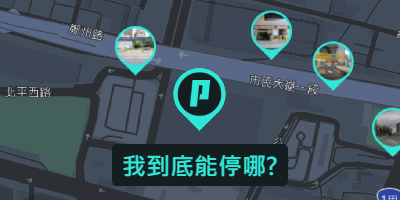
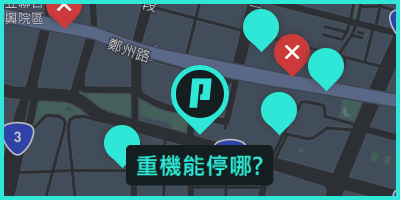
test

diff --git a/index.html b/index.html
@@ -4,16 +4,16 @@
     <meta charset="UTF-8" />
     <link rel="icon" href="/logo.png" />
     <meta name="viewport" content="width=device-width, initial-scale=1.0" />
-    <title>騎重機錯了嗎?到底能停哪?</title>
+    <title>重機能停哪?</title>
     <link rel="apple-touch-icon" href="./logo.png">
     <link rel="manifest" href="./manifest.json" />
     <meta property="description" content="車位這麼多 但我到底能停哪裡? 停車費又是多少?" >
-    <meta property="og:title" content="騎重機錯了嗎?到底能停哪?" >
+    <meta property="og:title" content="重機能停哪?" >
     <meta property="og:type" content="website" >
     <meta property="og:url" content="https://findparkinglot.github.io/" >
     <meta property="og:image" content="https://findparkinglot.github.io/ogimage.png" >
     <meta property="og:description" content="車位這麼多 但我到底能停哪裡? 停車費又是多少?"  >
-    <meta property="og:site_name" content="騎重機錯了嗎?到底能停哪?" >
+    <meta property="og:site_name" content="重機能停哪?" >
     <meta property="og:locale" content="" >
     <link rel="alternate" hreflang="zh-tw" href="https://findparkinglot.github.io/" />
     <link rel="canonical" href="https://findparkinglot.github.io/">
@@ -32,7 +32,7 @@
       </div>
     </div>
     <noscript>
-      <strong>We're sorry but 我到底能停哪? doesn't work properly without JavaScript enabled. Please enable it to continue.</strong>
+      <strong>We're sorry but 重機能停哪? doesn't work properly without JavaScript enabled. Please enable it to continue.</strong>
     </noscript>
     <div id="app"></div>
     <script type="module" src="/src/main.js"></script>

diff --git a/src/App.vue b/src/App.vue
@@ -50,7 +50,7 @@ const onSetParkingInfo = (data) => {
 <template>
 
   <div class="appTitle">
-    <h1>騎重機錯了嗎?到底能停哪?</h1>
+    <h1>重機能停哪?</h1>
   </div>
   <!-- <button
     class="btn btnGetLngLat"
@@ -62,13 +62,13 @@ const onSetParkingInfo = (data) => {
     :class="mapOptions.getLngLat ? 'active' : ''"
   >
     {{ mapOptions.getLngLat ? "結束取得座標" : "手動取得座標" }}
-  </button>
+  </button> -->
   <button
     class="btn btnFAQ"
     @click="windowFAQOpen ? (windowFAQOpen = false) : (windowFAQOpen = true)"
   >
     如何加入手機桌面?
-  </button> -->
+  </button>
 
   
 

diff --git a/src/style.css b/src/style.css
@@ -279,7 +279,7 @@ button.btn.active{
   transform: rotate(-45deg);
 }
 
-button.btnGetLngLat{
+button.btnFAQ{
   position: absolute;
   z-index: 999;
   top: 10px;
@@ -288,7 +288,8 @@ button.btnGetLngLat{
   padding: 6px 8px;
 }
 
-button.btnFAQ{
+
+button.btnGetLngLat{
   position: absolute;
   z-index: 999;
   top: 50px;
@@ -296,7 +297,6 @@ button.btnFAQ{
   font-size: 12px;
   padding: 6px 8px;
 }
-
 .coordinates {
   background: #141d1f;
   color: #fff;
